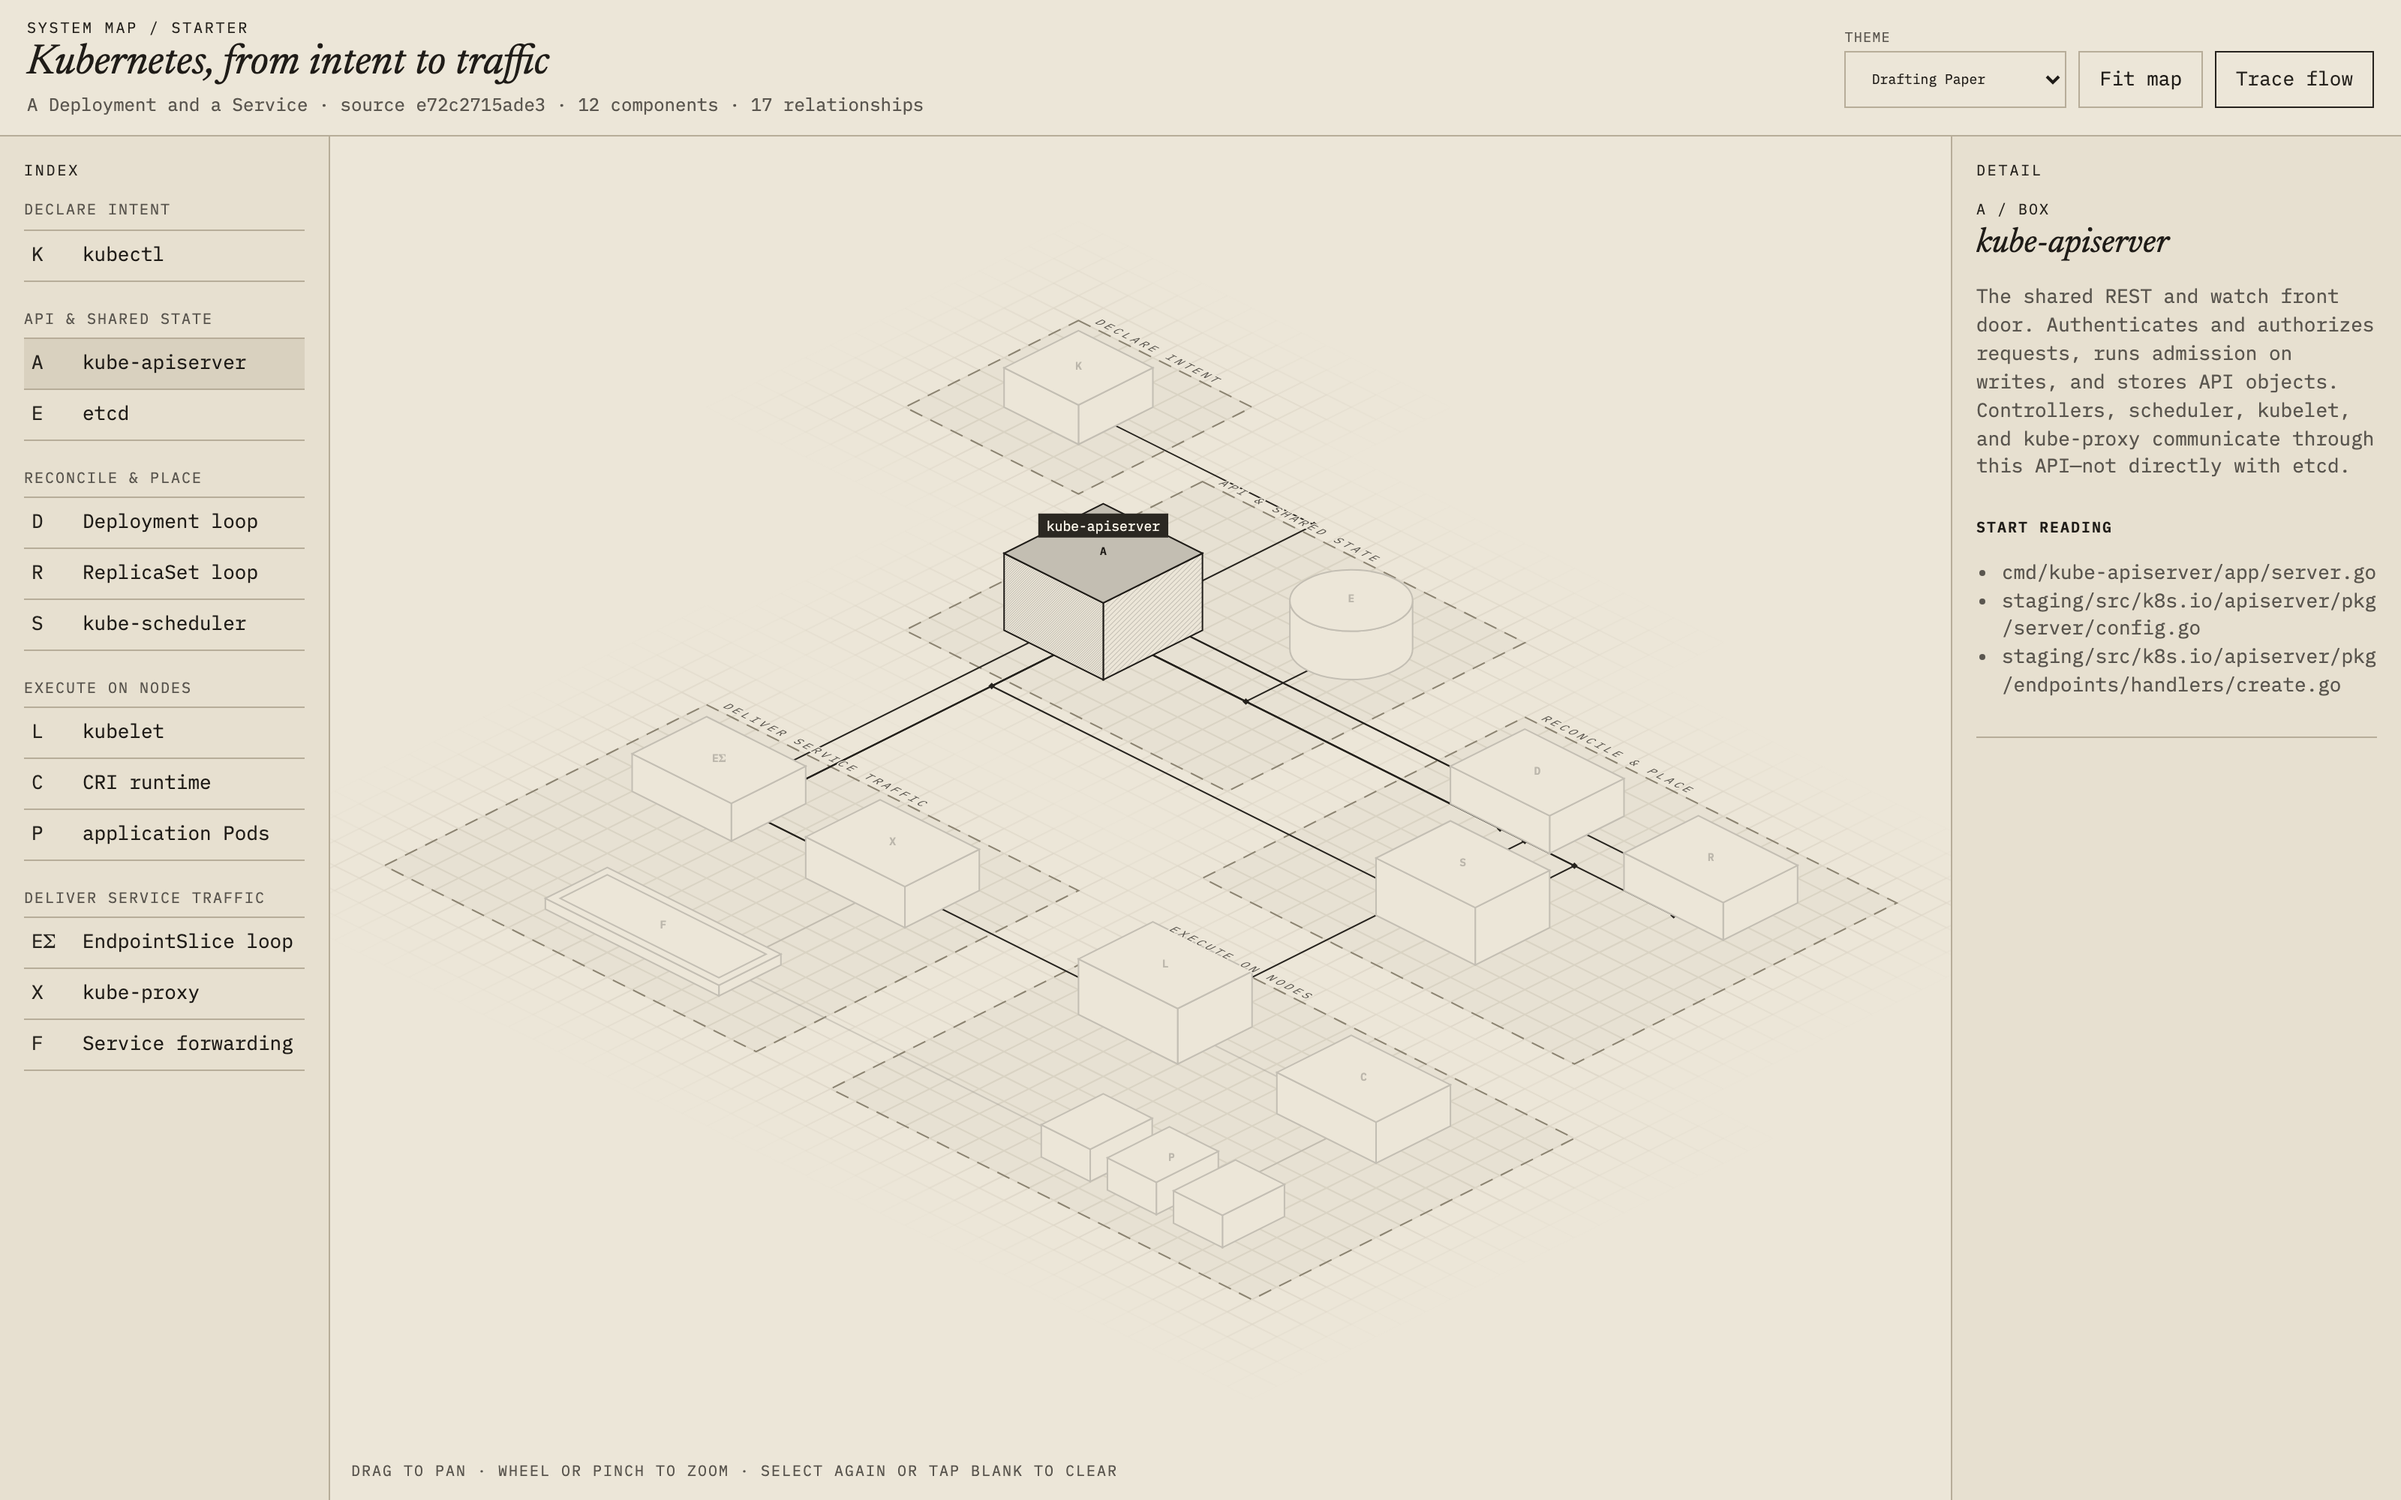
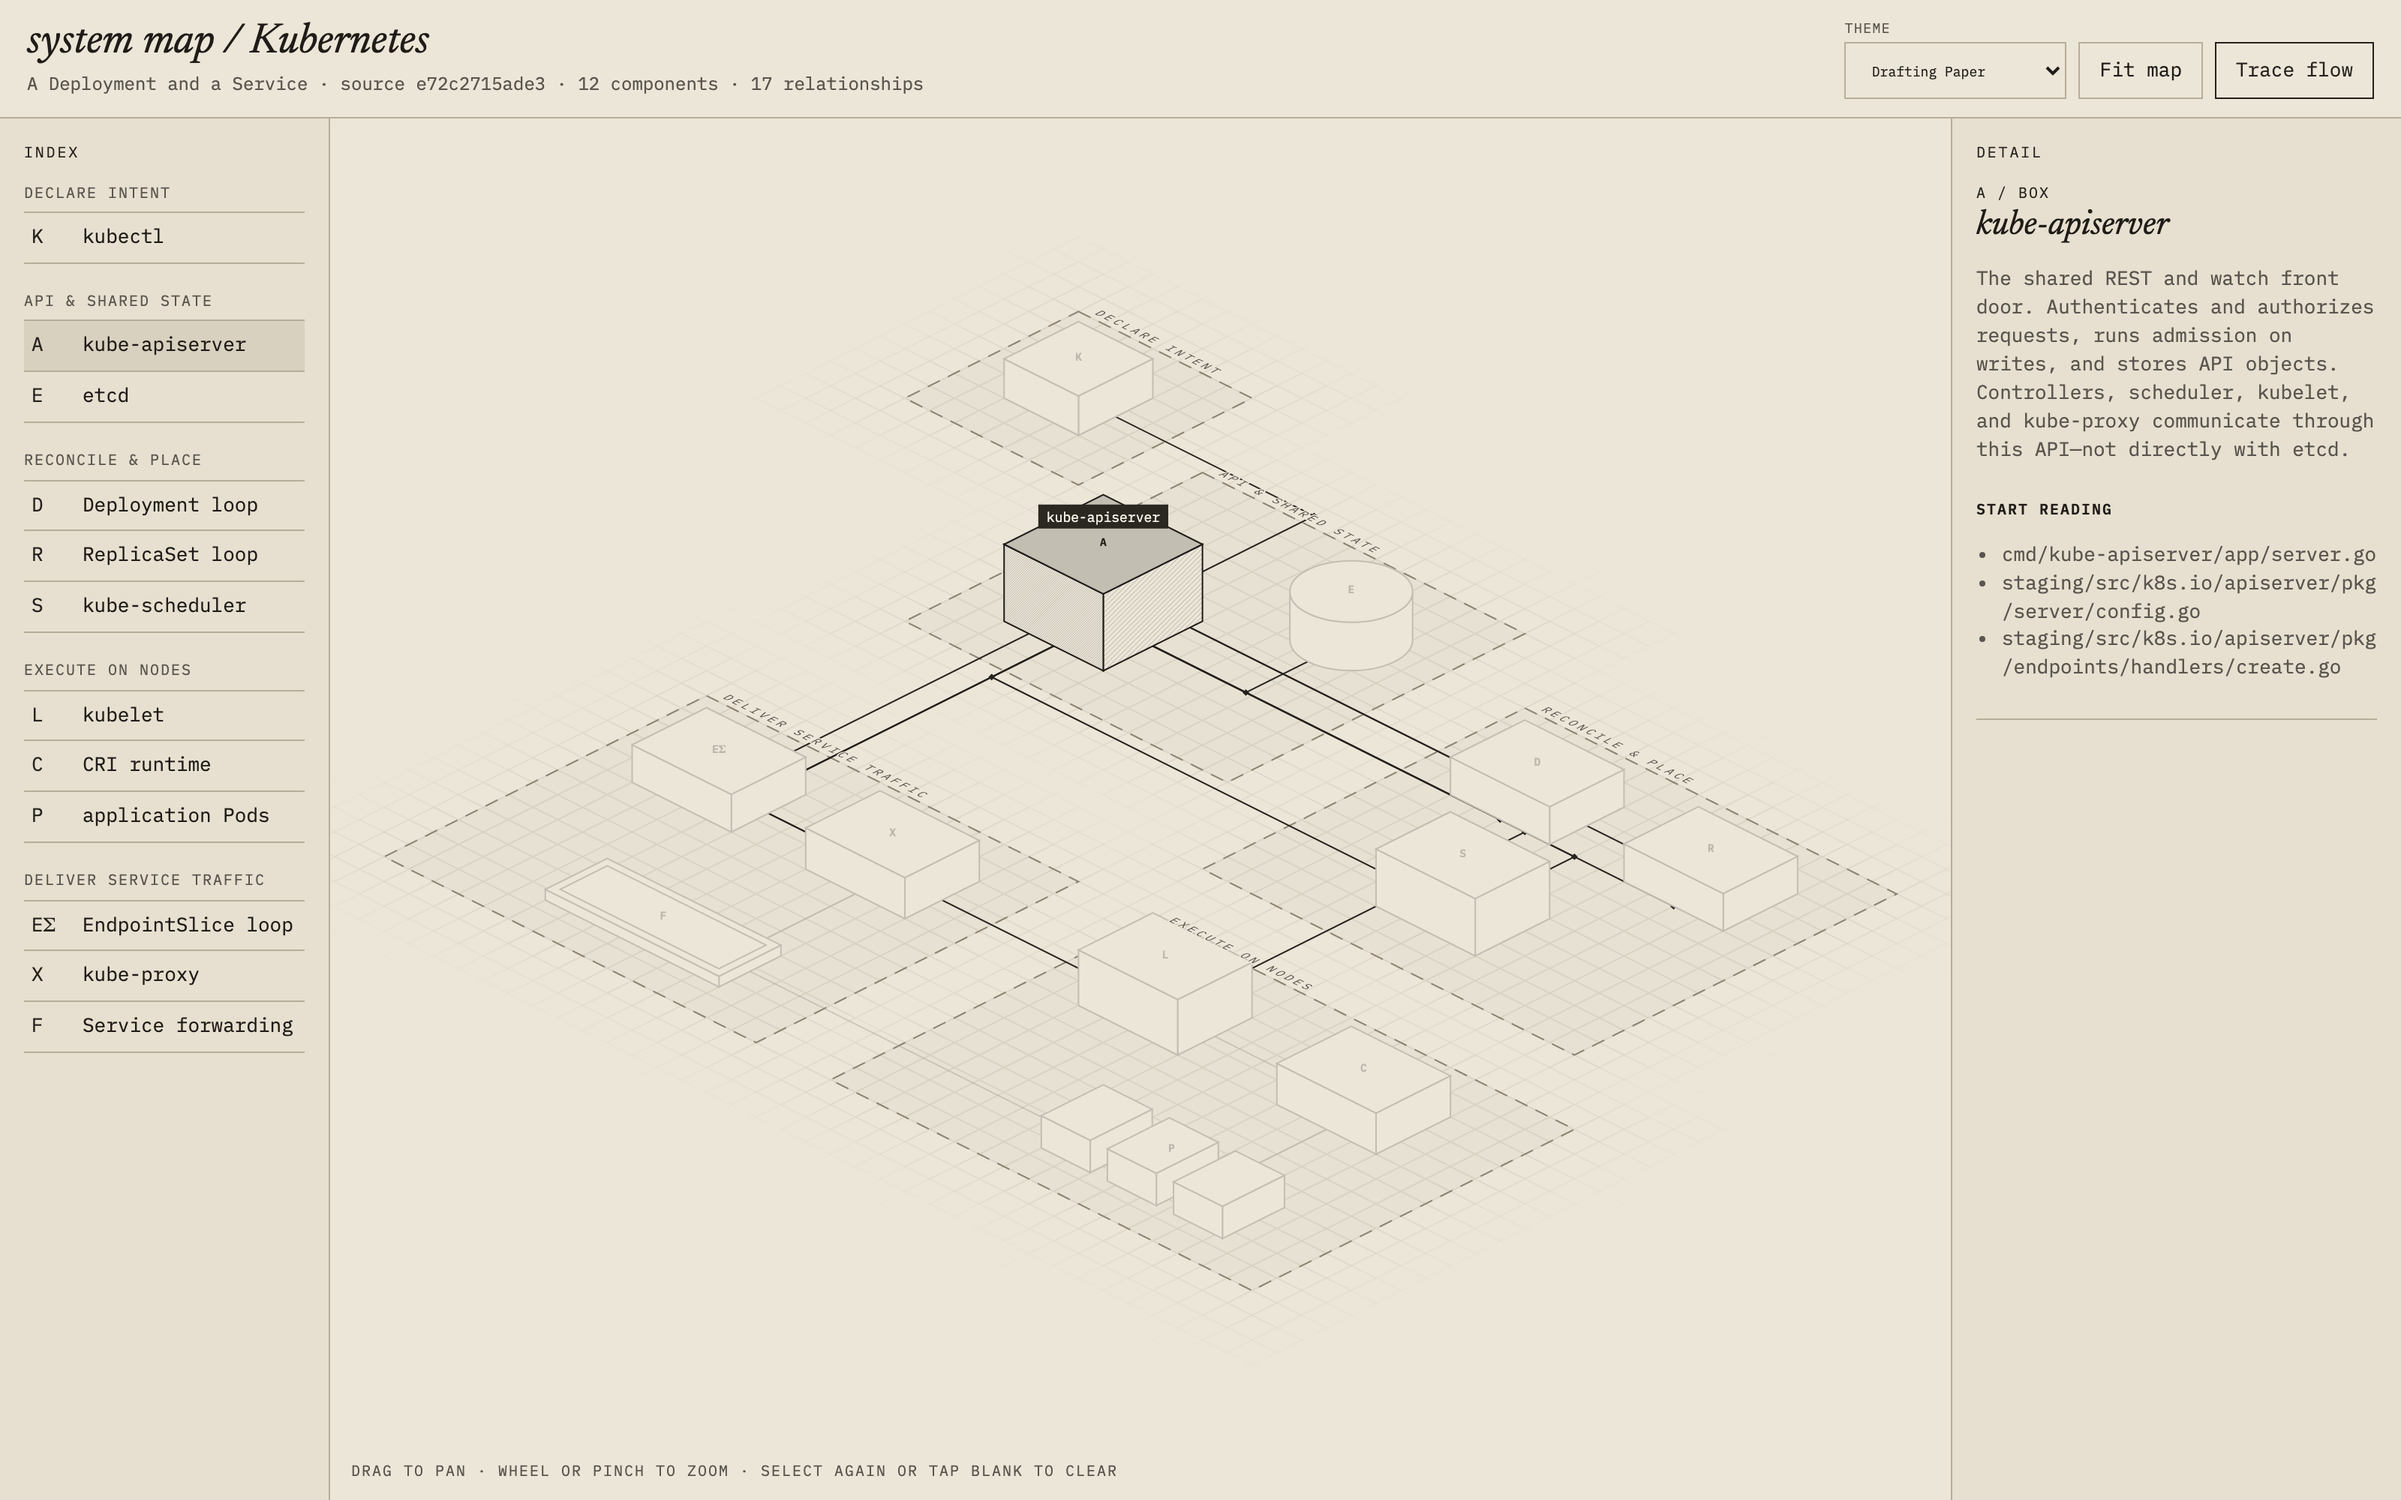
Use project names for system map titles

diff --git a/making-isometric-system-maps/assets/starter/index.html b/making-isometric-system-maps/assets/starter/index.html
@@ -3,7 +3,7 @@
 <head>
   <meta charset="utf-8">
   <meta name="viewport" content="width=device-width, initial-scale=1">
-  <title>System map starter</title>
+  <title>system map</title>
   <link rel="icon" href="data:,">
   <link rel="stylesheet" href="fonts.css">
   <link rel="stylesheet" href="style.css">
@@ -11,7 +11,6 @@
 <body>
   <header>
     <div>
-      <p class="eyebrow">SYSTEM MAP / STARTER</p>
       <h1 id="title"></h1>
       <p id="subtitle"></p>
     </div>

diff --git a/making-isometric-system-maps/assets/starter/map.js b/making-isometric-system-maps/assets/starter/map.js
@@ -355,7 +355,7 @@ function trace() {
   showDetail(byId.get(edge.to));
 }
 
-$('#title').textContent = map.title;
+$('#title').textContent = document.title = `system map / ${map.title}`;
 $('#subtitle').textContent = `${map.subtitle} · ${map.nodes.length} components · ${map.edges.length} relationships`;
 traceButton.hidden = !map.flow?.length;
 await document.fonts.ready;

diff --git a/making-isometric-system-maps/assets/starter/style.css b/making-isometric-system-maps/assets/starter/style.css
@@ -105,7 +105,7 @@ h1 {
 header p { margin: 0; }
 #subtitle { margin-top: 5px; color: var(--muted-ink); font-size: 12px; }
 
-.eyebrow, .section-label {
+.section-label {
   margin: 0;
   color: var(--accent);
   font-size: 10px;

diff --git a/making-isometric-system-maps/assets/starter/data.js b/making-isometric-system-maps/assets/starter/data.js
@@ -1,5 +1,5 @@
 export default {
-  title: 'SQLite: from SQL to rows',
+  title: 'SQLite',
   subtitle: 'One SELECT, inside one process',
 
   // Regions group responsibilities, not separate services.

diff --git a/making-isometric-system-maps/screenshots/kubernetes/data.js b/making-isometric-system-maps/screenshots/kubernetes/data.js
@@ -1,5 +1,5 @@
 export default {
-  title: 'Kubernetes, from intent to traffic',
+  title: 'Kubernetes',
   subtitle: 'A Deployment and a Service · source e72c2715ade3',
   theme: 'paper',
 

diff --git a/making-isometric-system-maps/SKILL.md b/making-isometric-system-maps/SKILL.md
@@ -58,6 +58,9 @@ tests. The page needs no package installation or build step.
 
 ## 7. Implement the map
 
+Set `title` to the project name only, such as `SQLite`. The page and browser
+tab use `system map / PROJECT`; do not write a narrative headline.
+
 Replace the example's zones, nodes, edges, and optional flow in `data.js`.
 Edit the plan coordinates and dimensions there to lay out the new map;
 include component names, descriptions, and relevant source paths.
